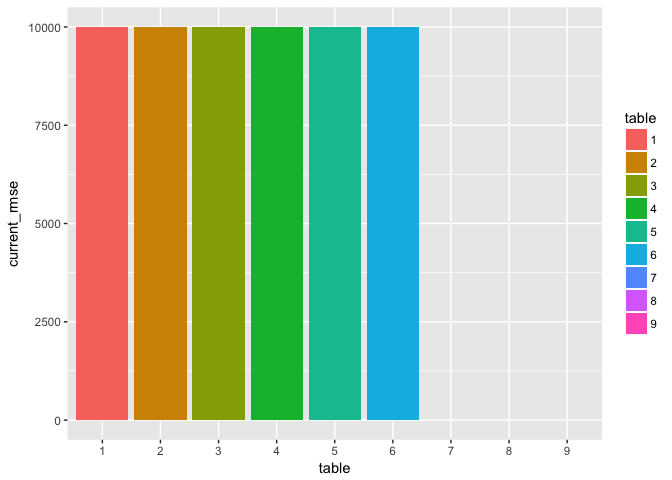
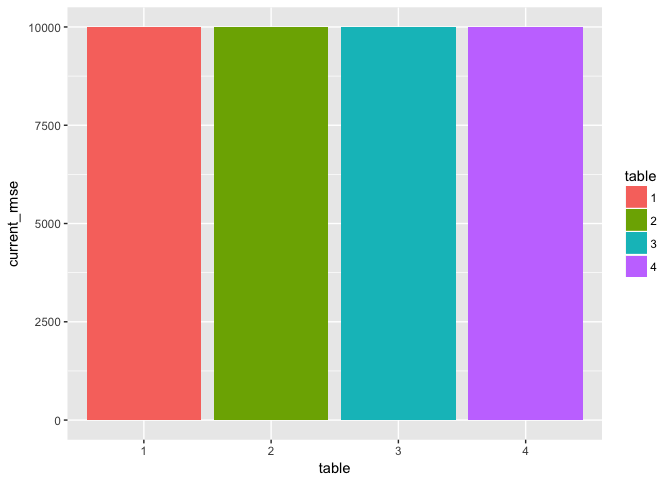
Fielding

diff --git a/working/table_assignments.md b/working/table_assignments.md
@@ -35,8 +35,8 @@ class["random"]<-runif(dim(class)[1])
 class<-class%>%arrange(random)
 
 class["index"]<-seq(1:dim(class)[1])
-
-class<-class%>%mutate(table=cut(index,9,(1:9)))
+ngroups<-4
+class<-class%>%mutate(table=cut(index,ngroups,(1:ngroups)))
 
 class$rmse<-NA
 
@@ -46,24 +46,24 @@ print(select(class,first_name,last_name,table),n=100)
     ## # A tibble: 18 x 3
     ##    first_name  last_name  table
     ##         <chr>      <chr> <fctr>
-    ##  1       Siqi       Chen      1
-    ##  2     Connor       Kreb      1
-    ##  3      Raven       Delk      2
-    ##  4     Rachel      Anand      2
-    ##  5     Claire    Fogarty      3
-    ##  6      Katie      Means      3
-    ##  7      Susan       Cobb      4
-    ##  8      Sunny        Cao      4
-    ##  9       C.J.       Pond      5
-    ## 10      Henry Livingston      5
-    ## 11     Alexis       Cook      6
-    ## 12     Brenda         Lu      6
-    ## 13       Cole      Smith      7
-    ## 14      Arjun       Shah      7
-    ## 15       Will   Sullivan      8
-    ## 16       Jack     Cramer      8
-    ## 17      Ethan      Polan      9
-    ## 18        Ben     Scheer      9
+    ##  1     Brenda         Lu      1
+    ##  2       C.J.       Pond      1
+    ##  3      Katie      Means      1
+    ##  4     Connor       Kreb      1
+    ##  5     Alexis       Cook      1
+    ##  6      Sunny        Cao      2
+    ##  7      Susan       Cobb      2
+    ##  8     Rachel      Anand      2
+    ##  9     Claire    Fogarty      2
+    ## 10       Siqi       Chen      3
+    ## 11       Cole      Smith      3
+    ## 12        Ben     Scheer      3
+    ## 13       Jack     Cramer      3
+    ## 14      Arjun       Shah      4
+    ## 15      Ethan      Polan      4
+    ## 16      Henry Livingston      4
+    ## 17      Raven       Delk      4
+    ## 18       Will   Sullivan      4
 
 ``` r
 names(class)
@@ -100,7 +100,5 @@ gg<-ggplot(class_summary,aes(x=table,y=current_rmse,fill=table))
 gg<-gg+geom_bar(stat="identity",position=position_dodge())
 gg
 ```
-
-    ## Warning: Removed 3 rows containing missing values (geom_bar).
 
 ![](table_assignments_files/figure-markdown_github-ascii_identifiers/unnamed-chunk-2-1.png)
